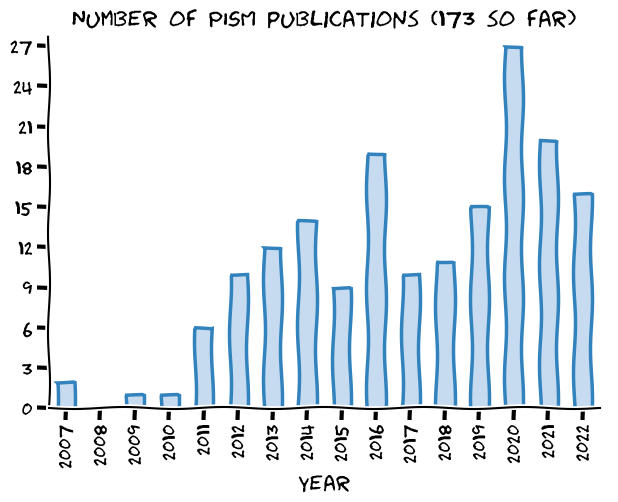
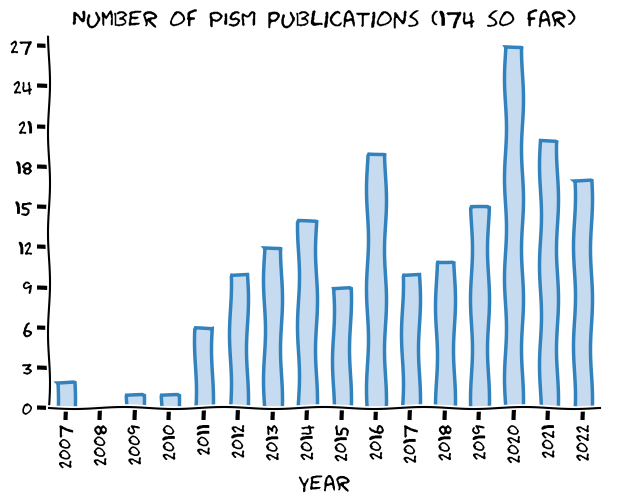
[skip ci] Update the website

diff --git a/publications/index.html b/publications/index.html
@@ -291,6 +291,7 @@ window.onscroll = function() {
 <ol>
   <li>Aljaž Bavec and Matjaž Depolli. Alpine glacier simulation with linear climate models. In <em>2022 45th Jubilee International Convention on Information, Communication and Electronic Technology (MIPRO)</em>, 245–250. 2022. <a href="https://doi.org/10.23919/MIPRO55190.2022.9803326">doi:10.23919/MIPRO55190.2022.9803326</a>.</li>
   <li>Anaïs Bretones, Kerim H. Nisancioglu, Mari F. Jensen, Ailin Brakstad, and Shuting Yang. Transient increase in arctic deep-water formation and ocean circulation under sea-ice retreat. <em>Journal of Climate</em>, 35(1):109 – 124, 2022. URL: <a href="https://journals.ametsoc.org/view/journals/clim/35/1/JCLI-D-21-0152.1.xml">https://journals.ametsoc.org/view/journals/clim/35/1/JCLI-D-21-0152.1.xml</a>, <a href="https://doi.org/10.1175/JCLI-D-21-0152.1">doi:10.1175/JCLI-D-21-0152.1</a>.</li>
+  <li>Chris D. Clark, Jeremy C. Ely, Richard C. A. Hindmarsh, Sarah Bradley, Adam Ignéczi, Derek Fabel, Colm Ó Cofaigh, Richard C. Chiverrell, James Scourse, Sara Benetti, Tom Bradwell, David J. A. Evans, David H. Roberts, Matt Burke, S. Louise Callard, Alicia Medialdea, Margot Saher, David Small, Rachel K. Smedley, Edward Gasson, Lauren Gregoire, Niall Gandy, Anna L. C. Hughes, Colin Ballantyne, Mark D. Bateman, Grant R. Bigg, Jenny Doole, Dayton Dove, Geoff A. T. Duller, Geraint T. H. Jenkins, Stephen L. Livingstone, Stephen McCarron, Steve Moreton, David Pollard, Daniel Praeg, Hans Petter Sejrup, Katrien J. J. Van Landeghem, and Peter Wilson. Growth and retreat of the last British–Irish Ice Sheet, 31 000 to 15 000 years ago: the BRITICE-CHRONO reconstruction. <em>Boreas</em>, 2022. URL: <a href="https://onlinelibrary.wiley.com/doi/abs/10.1111/bor.12594">https://onlinelibrary.wiley.com/doi/abs/10.1111/bor.12594</a>, <a href="https://doi.org/https://doi.org/10.1111/bor.12594">doi:https://doi.org/10.1111/bor.12594</a>.</li>
   <li>R. Döscher, M. Acosta, A. Alessandri, P. Anthoni, T. Arsouze, T. Bergman, R. Bernardello, S. Boussetta, L.-P. Caron, G. Carver, M. Castrillo, F. Catalano, I. Cvijanovic, P. Davini, E. Dekker, F. J. Doblas-Reyes, D. Docquier, P. Echevarria, U. Fladrich, R. Fuentes-Franco, M. Gröger, J. v. Hardenberg, J. Hieronymus, M. P. Karami, J.-P. Keskinen, T. Koenigk, R. Makkonen, F. Massonnet, M. Ménégoz, P. A. Miller, E. Moreno-Chamarro, L. Nieradzik, T. van Noije, P. Nolan, D. O’Donnell, P. Ollinaho, G. van den Oord, P. Ortega, O. T. Prims, A. Ramos, T. Reerink, C. Rousset, Y. Ruprich-Robert, P. Le Sager, T. Schmith, R. Schrödner, F. Serva, V. Sicardi, M. Sloth Madsen, B. Smith, T. Tian, E. Tourigny, P. Uotila, M. Vancoppenolle, S. Wang, D. Wårlind, U. Willén, K. Wyser, S. Yang, X. Yepes-Arbós, and Q. Zhang. The EC-Earth3 Earth system model for the Coupled Model Intercomparison Project 6. <em>Geoscientific Model Development</em>, 15(7):2973–3020, 2022. URL: <a href="https://gmd.copernicus.org/articles/15/2973/2022/">https://gmd.copernicus.org/articles/15/2973/2022/</a>, <a href="https://doi.org/10.5194/gmd-15-2973-2022">doi:10.5194/gmd-15-2973-2022</a>.</li>
   <li>J. Feldmann, R. Reese, R. Winkelmann, and A. Levermann. Shear-margin melting causes stronger transient ice discharge than ice-stream melting in idealized simulations. <em>The Cryosphere</em>, 16(5):1927–1940, 2022. URL: <a href="https://tc.copernicus.org/articles/16/1927/2022/">https://tc.copernicus.org/articles/16/1927/2022/</a>, <a href="https://doi.org/10.5194/tc-16-1927-2022">doi:10.5194/tc-16-1927-2022</a>.</li>
   <li>S. Hinck, E. J. Gowan, X. Zhang, and G. Lohmann. PISM-LakeCC: Implementing an adaptive proglacial lake boundary into an ice sheet model. <em>The Cryosphere</em>, pages 941–965, 2022. URL: <a href="https://tc.copernicus.org/articles/16/941/2022/">https://tc.copernicus.org/articles/16/941/2022/</a>, <a href="https://doi.org/10.5194/tc-16-941-2022">doi:10.5194/tc-16-941-2022</a>.</li>

diff --git a/publications/published.md b/publications/published.md
@@ -2,20 +2,21 @@
 
 1. Aljaž Bavec and Matjaž Depolli\. Alpine glacier simulation with linear climate models\. In *2022 45th Jubilee International Convention on Information, Communication and Electronic Technology \(MIPRO\)*, 245&ndash;250\. 2022\. [doi:10\.23919/MIPRO55190\.2022\.9803326](https://doi.org/10.23919/MIPRO55190.2022.9803326)\.   
 2. Anaïs Bretones, Kerim H\. Nisancioglu, Mari F\. Jensen, Ailin Brakstad, and Shuting Yang\. Transient increase in arctic deep\-water formation and ocean circulation under sea\-ice retreat\. *Journal of Climate*, 35\(1\):109 &ndash; 124, 2022\. URL: [https://journals\.ametsoc\.org/view/journals/clim/35/1/JCLI\-D\-21\-0152\.1\.xml](https://journals.ametsoc.org/view/journals/clim/35/1/JCLI-D-21-0152.1.xml), [doi:10\.1175/JCLI\-D\-21\-0152\.1](https://doi.org/10.1175/JCLI-D-21-0152.1)\.   
-3. R\. Döscher, M\. Acosta, A\. Alessandri, P\. Anthoni, T\. Arsouze, T\. Bergman, R\. Bernardello, S\. Boussetta, L\.\-P\. Caron, G\. Carver, M\. Castrillo, F\. Catalano, I\. Cvijanovic, P\. Davini, E\. Dekker, F\. J\. Doblas\-Reyes, D\. Docquier, P\. Echevarria, U\. Fladrich, R\. Fuentes\-Franco, M\. Gröger, J\. v\. Hardenberg, J\. Hieronymus, M\. P\. Karami, J\.\-P\. Keskinen, T\. Koenigk, R\. Makkonen, F\. Massonnet, M\. Ménégoz, P\. A\. Miller, E\. Moreno\-Chamarro, L\. Nieradzik, T\. van Noije, P\. Nolan, D\. O'Donnell, P\. Ollinaho, G\. van den Oord, P\. Ortega, O\. T\. Prims, A\. Ramos, T\. Reerink, C\. Rousset, Y\. Ruprich\-Robert, P\. Le Sager, T\. Schmith, R\. Schrödner, F\. Serva, V\. Sicardi, M\. Sloth Madsen, B\. Smith, T\. Tian, E\. Tourigny, P\. Uotila, M\. Vancoppenolle, S\. Wang, D\. Wårlind, U\. Willén, K\. Wyser, S\. Yang, X\. Yepes\-Arbós, and Q\. Zhang\. The EC\-Earth3 Earth system model for the Coupled Model Intercomparison Project 6\. *Geoscientific Model Development*, 15\(7\):2973–3020, 2022\. URL: [https://gmd\.copernicus\.org/articles/15/2973/2022/](https://gmd.copernicus.org/articles/15/2973/2022/), [doi:10\.5194/gmd\-15\-2973\-2022](https://doi.org/10.5194/gmd-15-2973-2022)\.   
-4. J\. Feldmann, R\. Reese, R\. Winkelmann, and A\. Levermann\. Shear\-margin melting causes stronger transient ice discharge than ice\-stream melting in idealized simulations\. *The Cryosphere*, 16\(5\):1927–1940, 2022\. URL: [https://tc\.copernicus\.org/articles/16/1927/2022/](https://tc.copernicus.org/articles/16/1927/2022/), [doi:10\.5194/tc\-16\-1927\-2022](https://doi.org/10.5194/tc-16-1927-2022)\.   
-5. S\. Hinck, E\. J\. Gowan, X\. Zhang, and G\. Lohmann\. PISM\-LakeCC: Implementing an adaptive proglacial lake boundary into an ice sheet model\. *The Cryosphere*, pages 941–965, 2022\. URL: [https://tc\.copernicus\.org/articles/16/941/2022/](https://tc.copernicus.org/articles/16/941/2022/), [doi:10\.5194/tc\-16\-941\-2022](https://doi.org/10.5194/tc-16-941-2022)\.   
-6. Oğuzhan Köse, M\. Akif Sarıkaya, Attila Çiner, Adem Candaş, Cengiz Yıldırım, and Klaus M\. Wilcken\. Reconstruction of Last Glacial Maximum glaciers and palaeoclimate in the central Taurus Range, Mt\. Karanfil, of the Eastern Mediterranean\. *Quaternary Science Reviews*, 291:107656, sep 2022\. [doi:10\.1016/j\.quascirev\.2022\.107656](https://doi.org/10.1016/j.quascirev.2022.107656)\.   
-7. Shuang Liu, Kaiheng Hu, Weiming Liu, and Paul A\. Carling\. Hydro\-climatic characteristics of Yarlung Zangbo River Basin since the Last Glacial Maximum\. *Adv\. Atmos\. Sci\.*, 2022\. [doi:10\.1007/s00376\-021\-1150\-7](https://doi.org/10.1007/s00376-021-1150-7)\.   
-8. Xiao Luo and Ting Lin\. A Semi\-Empirical Framework for ice sheet response analysis under Oceanic forcing in Antarctica and Greenland\. *Climate Dynamics*, may 2022\. [doi:10\.1007/s00382\-022\-06317\-x](https://doi.org/10.1007/s00382-022-06317-x)\.   
-9. M\. S\. Madsen, S\. Yang, G\. Aðalgeirsdóttir, S\. H\. Svendsen, C\. B\. Rodehacke, and I\. M\. Ringgaard\. The role of an interactive greenland ice sheet in the coupled climate\-ice sheet model EC\-Earth\-PISM\. *Climate Dynamics*, Feb 2022\. [doi:10\.1007/s00382\-022\-06184\-6](https://doi.org/10.1007/s00382-022-06184-6)\.   
-10. T\. Schlemm, J\. Feldmann, R\. Winkelmann, and A\. Levermann\. Stabilizing effect of mélange buttressing on the marine ice\-cliff instability of the West Antarctic Ice Sheet\. *The Cryosphere*, 16\(5\):1979–1996, 2022\. URL: [https://tc\.copernicus\.org/articles/16/1979/2022/](https://tc.copernicus.org/articles/16/1979/2022/), [doi:10\.5194/tc\-16\-1979\-2022](https://doi.org/10.5194/tc-16-1979-2022)\.   
-11. Martin Siegert and Nicholas R Golledge\. Advances in Numerical Modelling of the Antarctic Ice Sheet\. In *Antarctic Climate Evolution*, chapter 5, pages 199–218\. Elsevier, 2nd edition, 2022\.   
-12. Qing Yan, Lewis A\. Owen, Chuncheng Guo, Zhongshi Zhang, Jinzhe Zhang, and Huijun Wang\. Widespread glacier advances across the Tian Shan during Marine Isotope Stage 3 not supported by climate\-glaciation simulations\. *Fundamental Research*, 2022\. URL: [https://www\.sciencedirect\.com/science/article/pii/S266732582200111X](https://www.sciencedirect.com/science/article/pii/S266732582200111X), [doi:10\.1016/j\.fmre\.2022\.01\.033](https://doi.org/10.1016/j.fmre.2022.01.033)\.   
-13. Qing Yan, Ting Wei, and Zhongshi Zhang\. Modeling the climate sensitivity of Patagonian glaciers and their responses to climatic change during the global last glacial maximum\. *Quaternary Science Reviews*, 288:107582, 2022\. URL: [https://www\.sciencedirect\.com/science/article/pii/S027737912200213X](https://www.sciencedirect.com/science/article/pii/S027737912200213X), [doi:https://doi\.org/10\.1016/j\.quascirev\.2022\.107582](https://doi.org/https://doi.org/10.1016/j.quascirev.2022.107582)\.   
-14. Hu Yang, Uta Krebs\-Kanzow, Thomas Kleiner, Dmitry Sidorenko, Christian Bernd Rodehacke, Xiaoxu Shi, Paul Gierz, Lu Niu, Evan J\. Gowan, Sebastian Hinck, Xingxing Liu, Lennert B\. Stap, and Gerrit Lohmann\. Impact of paleoclimate on present and future evolution of the Greenland Ice Sheet\. *PLOS ONE*, 17\(1\):1–21, 2022\. [doi:10\.1371/journal\.pone\.0259816](https://doi.org/10.1371/journal.pone.0259816)\.   
-15. M\. Zeitz, J\. M\. Haacker, J\. F\. Donges, T\. Albrecht, and R\. Winkelmann\. Dynamic regimes of the Greenland Ice Sheet emerging from interacting melt\-elevation and glacial isostatic adjustment feedbacks\. *Earth System Dynamics*, 13\(3\):1077–1096, 2022\. URL: [https://esd\.copernicus\.org/articles/13/1077/2022/](https://esd.copernicus.org/articles/13/1077/2022/), [doi:10\.5194/esd\-13\-1077\-2022](https://doi.org/10.5194/esd-13-1077-2022)\.   
-16. A\.\-S\. P\. Zinck and A\. Grinsted\. Brief communication: Estimating the ice thickness of the Müller Ice Cap to support selection of a drill site\. *The Cryosphere*, 16\(4\):1399–1407, 2022\. URL: [https://tc\.copernicus\.org/articles/16/1399/2022/](https://tc.copernicus.org/articles/16/1399/2022/), [doi:10\.5194/tc\-16\-1399\-2022](https://doi.org/10.5194/tc-16-1399-2022)\.   
+3. Chris D\. Clark, Jeremy C\. Ely, Richard C\. A\. Hindmarsh, Sarah Bradley, Adam Ignéczi, Derek Fabel, Colm Ó Cofaigh, Richard C\. Chiverrell, James Scourse, Sara Benetti, Tom Bradwell, David J\. A\. Evans, David H\. Roberts, Matt Burke, S\. Louise Callard, Alicia Medialdea, Margot Saher, David Small, Rachel K\. Smedley, Edward Gasson, Lauren Gregoire, Niall Gandy, Anna L\. C\. Hughes, Colin Ballantyne, Mark D\. Bateman, Grant R\. Bigg, Jenny Doole, Dayton Dove, Geoff A\. T\. Duller, Geraint T\. H\. Jenkins, Stephen L\. Livingstone, Stephen McCarron, Steve Moreton, David Pollard, Daniel Praeg, Hans Petter Sejrup, Katrien J\. J\. Van Landeghem, and Peter Wilson\. Growth and retreat of the last British–Irish Ice Sheet, 31 000 to 15 000 years ago: the BRITICE\-CHRONO reconstruction\. *Boreas*, 2022\. URL: [https://onlinelibrary\.wiley\.com/doi/abs/10\.1111/bor\.12594](https://onlinelibrary.wiley.com/doi/abs/10.1111/bor.12594), [doi:https://doi\.org/10\.1111/bor\.12594](https://doi.org/https://doi.org/10.1111/bor.12594)\.   
+4. R\. Döscher, M\. Acosta, A\. Alessandri, P\. Anthoni, T\. Arsouze, T\. Bergman, R\. Bernardello, S\. Boussetta, L\.\-P\. Caron, G\. Carver, M\. Castrillo, F\. Catalano, I\. Cvijanovic, P\. Davini, E\. Dekker, F\. J\. Doblas\-Reyes, D\. Docquier, P\. Echevarria, U\. Fladrich, R\. Fuentes\-Franco, M\. Gröger, J\. v\. Hardenberg, J\. Hieronymus, M\. P\. Karami, J\.\-P\. Keskinen, T\. Koenigk, R\. Makkonen, F\. Massonnet, M\. Ménégoz, P\. A\. Miller, E\. Moreno\-Chamarro, L\. Nieradzik, T\. van Noije, P\. Nolan, D\. O'Donnell, P\. Ollinaho, G\. van den Oord, P\. Ortega, O\. T\. Prims, A\. Ramos, T\. Reerink, C\. Rousset, Y\. Ruprich\-Robert, P\. Le Sager, T\. Schmith, R\. Schrödner, F\. Serva, V\. Sicardi, M\. Sloth Madsen, B\. Smith, T\. Tian, E\. Tourigny, P\. Uotila, M\. Vancoppenolle, S\. Wang, D\. Wårlind, U\. Willén, K\. Wyser, S\. Yang, X\. Yepes\-Arbós, and Q\. Zhang\. The EC\-Earth3 Earth system model for the Coupled Model Intercomparison Project 6\. *Geoscientific Model Development*, 15\(7\):2973–3020, 2022\. URL: [https://gmd\.copernicus\.org/articles/15/2973/2022/](https://gmd.copernicus.org/articles/15/2973/2022/), [doi:10\.5194/gmd\-15\-2973\-2022](https://doi.org/10.5194/gmd-15-2973-2022)\.   
+5. J\. Feldmann, R\. Reese, R\. Winkelmann, and A\. Levermann\. Shear\-margin melting causes stronger transient ice discharge than ice\-stream melting in idealized simulations\. *The Cryosphere*, 16\(5\):1927–1940, 2022\. URL: [https://tc\.copernicus\.org/articles/16/1927/2022/](https://tc.copernicus.org/articles/16/1927/2022/), [doi:10\.5194/tc\-16\-1927\-2022](https://doi.org/10.5194/tc-16-1927-2022)\.   
+6. S\. Hinck, E\. J\. Gowan, X\. Zhang, and G\. Lohmann\. PISM\-LakeCC: Implementing an adaptive proglacial lake boundary into an ice sheet model\. *The Cryosphere*, pages 941–965, 2022\. URL: [https://tc\.copernicus\.org/articles/16/941/2022/](https://tc.copernicus.org/articles/16/941/2022/), [doi:10\.5194/tc\-16\-941\-2022](https://doi.org/10.5194/tc-16-941-2022)\.   
+7. Oğuzhan Köse, M\. Akif Sarıkaya, Attila Çiner, Adem Candaş, Cengiz Yıldırım, and Klaus M\. Wilcken\. Reconstruction of Last Glacial Maximum glaciers and palaeoclimate in the central Taurus Range, Mt\. Karanfil, of the Eastern Mediterranean\. *Quaternary Science Reviews*, 291:107656, sep 2022\. [doi:10\.1016/j\.quascirev\.2022\.107656](https://doi.org/10.1016/j.quascirev.2022.107656)\.   
+8. Shuang Liu, Kaiheng Hu, Weiming Liu, and Paul A\. Carling\. Hydro\-climatic characteristics of Yarlung Zangbo River Basin since the Last Glacial Maximum\. *Adv\. Atmos\. Sci\.*, 2022\. [doi:10\.1007/s00376\-021\-1150\-7](https://doi.org/10.1007/s00376-021-1150-7)\.   
+9. Xiao Luo and Ting Lin\. A Semi\-Empirical Framework for ice sheet response analysis under Oceanic forcing in Antarctica and Greenland\. *Climate Dynamics*, may 2022\. [doi:10\.1007/s00382\-022\-06317\-x](https://doi.org/10.1007/s00382-022-06317-x)\.   
+10. M\. S\. Madsen, S\. Yang, G\. Aðalgeirsdóttir, S\. H\. Svendsen, C\. B\. Rodehacke, and I\. M\. Ringgaard\. The role of an interactive greenland ice sheet in the coupled climate\-ice sheet model EC\-Earth\-PISM\. *Climate Dynamics*, Feb 2022\. [doi:10\.1007/s00382\-022\-06184\-6](https://doi.org/10.1007/s00382-022-06184-6)\.   
+11. T\. Schlemm, J\. Feldmann, R\. Winkelmann, and A\. Levermann\. Stabilizing effect of mélange buttressing on the marine ice\-cliff instability of the West Antarctic Ice Sheet\. *The Cryosphere*, 16\(5\):1979–1996, 2022\. URL: [https://tc\.copernicus\.org/articles/16/1979/2022/](https://tc.copernicus.org/articles/16/1979/2022/), [doi:10\.5194/tc\-16\-1979\-2022](https://doi.org/10.5194/tc-16-1979-2022)\.   
+12. Martin Siegert and Nicholas R Golledge\. Advances in Numerical Modelling of the Antarctic Ice Sheet\. In *Antarctic Climate Evolution*, chapter 5, pages 199–218\. Elsevier, 2nd edition, 2022\.   
+13. Qing Yan, Lewis A\. Owen, Chuncheng Guo, Zhongshi Zhang, Jinzhe Zhang, and Huijun Wang\. Widespread glacier advances across the Tian Shan during Marine Isotope Stage 3 not supported by climate\-glaciation simulations\. *Fundamental Research*, 2022\. URL: [https://www\.sciencedirect\.com/science/article/pii/S266732582200111X](https://www.sciencedirect.com/science/article/pii/S266732582200111X), [doi:10\.1016/j\.fmre\.2022\.01\.033](https://doi.org/10.1016/j.fmre.2022.01.033)\.   
+14. Qing Yan, Ting Wei, and Zhongshi Zhang\. Modeling the climate sensitivity of Patagonian glaciers and their responses to climatic change during the global last glacial maximum\. *Quaternary Science Reviews*, 288:107582, 2022\. URL: [https://www\.sciencedirect\.com/science/article/pii/S027737912200213X](https://www.sciencedirect.com/science/article/pii/S027737912200213X), [doi:https://doi\.org/10\.1016/j\.quascirev\.2022\.107582](https://doi.org/https://doi.org/10.1016/j.quascirev.2022.107582)\.   
+15. Hu Yang, Uta Krebs\-Kanzow, Thomas Kleiner, Dmitry Sidorenko, Christian Bernd Rodehacke, Xiaoxu Shi, Paul Gierz, Lu Niu, Evan J\. Gowan, Sebastian Hinck, Xingxing Liu, Lennert B\. Stap, and Gerrit Lohmann\. Impact of paleoclimate on present and future evolution of the Greenland Ice Sheet\. *PLOS ONE*, 17\(1\):1–21, 2022\. [doi:10\.1371/journal\.pone\.0259816](https://doi.org/10.1371/journal.pone.0259816)\.   
+16. M\. Zeitz, J\. M\. Haacker, J\. F\. Donges, T\. Albrecht, and R\. Winkelmann\. Dynamic regimes of the Greenland Ice Sheet emerging from interacting melt\-elevation and glacial isostatic adjustment feedbacks\. *Earth System Dynamics*, 13\(3\):1077–1096, 2022\. URL: [https://esd\.copernicus\.org/articles/13/1077/2022/](https://esd.copernicus.org/articles/13/1077/2022/), [doi:10\.5194/esd\-13\-1077\-2022](https://doi.org/10.5194/esd-13-1077-2022)\.   
+17. A\.\-S\. P\. Zinck and A\. Grinsted\. Brief communication: Estimating the ice thickness of the Müller Ice Cap to support selection of a drill site\. *The Cryosphere*, 16\(4\):1399–1407, 2022\. URL: [https://tc\.copernicus\.org/articles/16/1399/2022/](https://tc.copernicus.org/articles/16/1399/2022/), [doi:10\.5194/tc\-16\-1399\-2022](https://doi.org/10.5194/tc-16-1399-2022)\.   
 
 ### 2021
 
